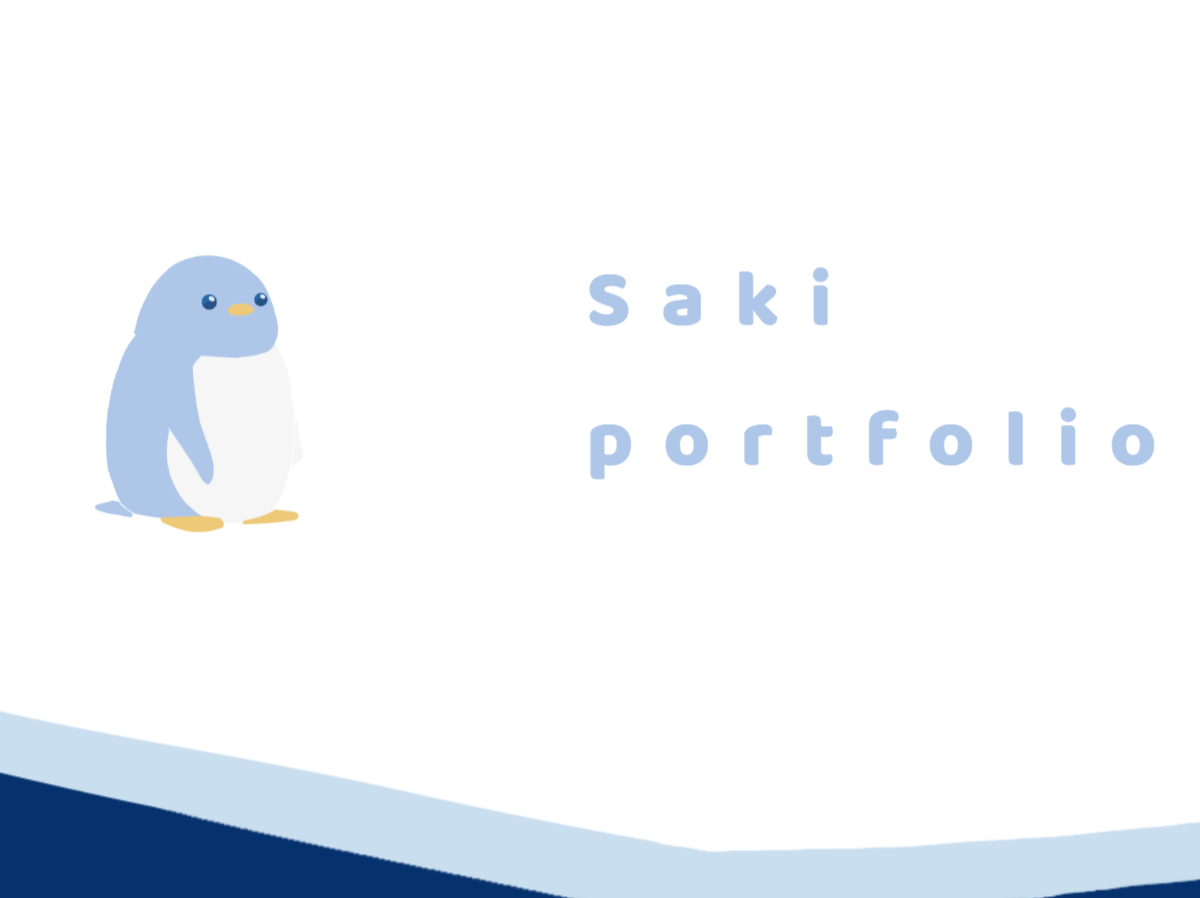
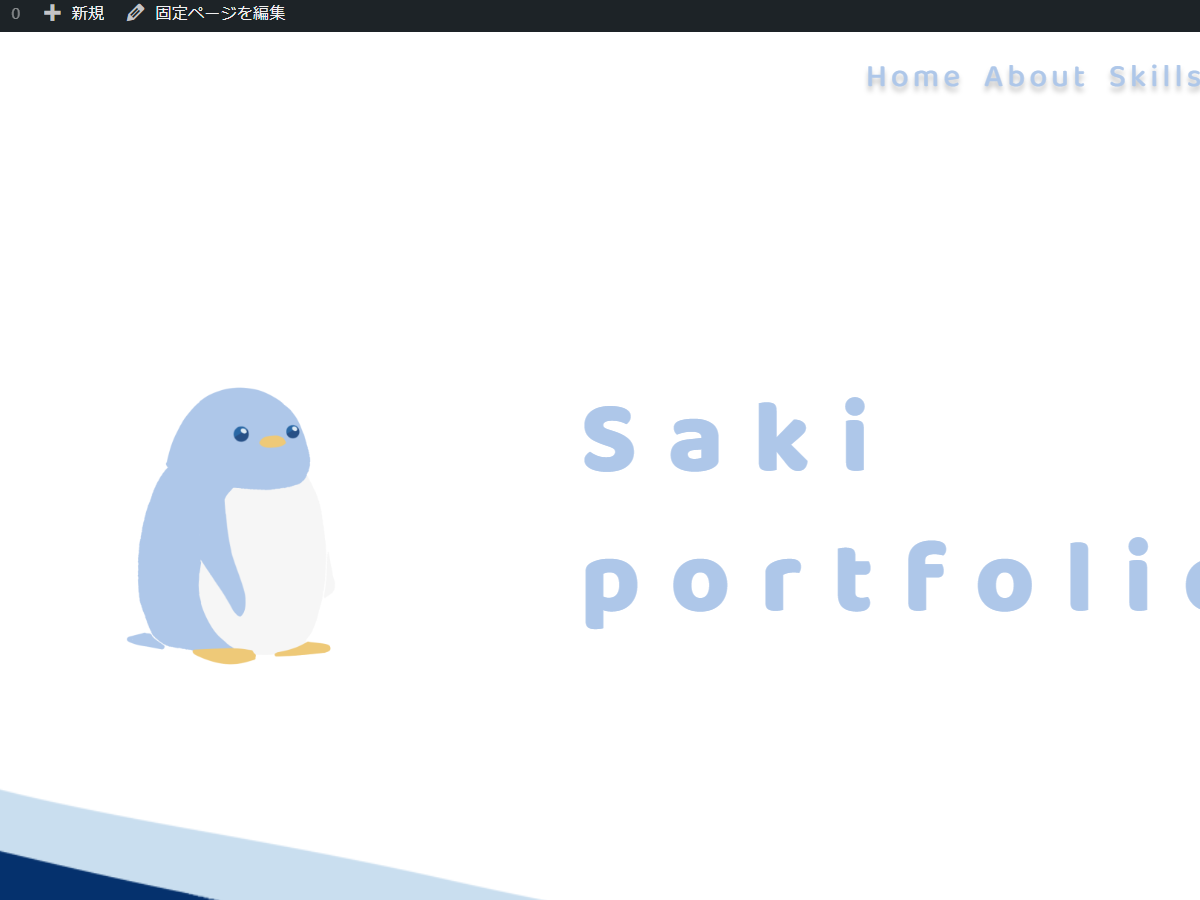
thema

diff --git a/css/app.css b/css/app.css
@@ -595,7 +595,7 @@ textarea:not([rows]) {
 @media screen and (min-width: 640px) and (max-width: 1024px) {
   .p-header__img {
     justify-content: center;
-    top: 75%;
+    top: 70%;
     left: 35%;
     width: 35%;
   }
@@ -1089,6 +1089,9 @@ textarea:not([rows]) {
   }
 }
 
+.p-single {
+  position: relative;
+}
 @media screen and (max-width: 640px) {
   .p-single {
     margin-top: 10rem;
@@ -1104,24 +1107,31 @@ textarea:not([rows]) {
     margin-top: 15rem;
   }
 }
-.p-single__text {
-  color: #ffffff;
-  line-height: 3rem;
+.p-single__title {
+  position: absolute;
+  z-index: 1;
 }
 @media screen and (max-width: 640px) {
-  .p-single__text {
-    margin-top: 20rem;
+  .p-single__title {
+    top: 10%;
+    left: 12%;
   }
 }
 @media screen and (min-width: 640px) and (max-width: 1024px) {
-  .p-single__text {
-    margin-top: 25rem;
+  .p-single__title {
+    top: 10%;
+    left: 20%;
   }
 }
 @media screen and (min-width: 1024px) {
-  .p-single__text {
-    margin-top: 22rem;
+  .p-single__title {
+    top: 10%;
+    left: 25%;
   }
+}
+.p-single__text {
+  color: #ffffff;
+  line-height: 3rem;
 }
 .p-single__text h3 {
   margin-top: 2rem;
@@ -1157,7 +1167,7 @@ textarea:not([rows]) {
 }
 @media screen and (min-width: 640px) and (max-width: 1024px) {
   .p-single__center {
-    min-height: 65rem;
+    min-height: 70rem;
   }
 }
 @media screen and (min-width: 1024px) {

diff --git a/sass/object/project/_p-single.scss b/sass/object/project/_p-single.scss
@@ -3,6 +3,7 @@
 // @use "../project/p-skills";
 
 .p-single{
+    position: relative;
     @include m.sp{
         margin-top: 10rem;
     }
@@ -12,18 +13,35 @@
     @include m.pc{
         margin-top: 15rem;
     }
+    &__title{
+        position: absolute;
+        z-index: 1;
+        @include m.sp{
+            top: 10%;
+            left: 12%;
+        }
+        @include m.tab{
+            top: 10%;
+            left: 20%;        
+        }
+        @include m.pc{
+            top: 10%;
+            left: 25%;
+        }
+
+    }
     &__text{
         color: var.$white;
         line-height: 3rem;
-        @include m.sp{
-            margin-top: 20rem;
-        }
-        @include m.tab{
-            margin-top: 25rem;
-        }
-        @include m.pc{
-            margin-top: 22rem;
-        }
+        // @include m.sp{
+        //     margin-top: 20rem;
+        // }
+        // @include m.tab{
+        //     margin-top: 25rem;
+        // }
+        // @include m.pc{
+        //     margin-top: 22rem;
+        // }
         h3{
             margin-top: 2rem;    
         }
@@ -66,7 +84,7 @@
             min-height: 60rem;
         }
         @include m.tab{
-            min-height: 65rem;
+            min-height: 70rem;
         }
         @include m.pc{
             min-height: 70rem;

diff --git a/js/main.js b/js/main.js
@@ -163,7 +163,7 @@ window.addEventListener('scroll', togglePageTopAnimation);
   ScrollReveal({ reset: false, distance: '2rem', duration: 2000, viewFactor: 0.3});
   ScrollReveal().reveal("h2, .p-single__title, .p-skills__left", { delay: 500, origin: 'bottom' });
   ScrollReveal().reveal(".c-fw-500", { delay: 800, origin: 'bottom' });
-  ScrollReveal().reveal(".p-skills__right, .p-skills__gallery-img, .p-works__card", { delay: 300, origin: 'bottom', interval: 200 });
+  ScrollReveal().reveal(".p-skills__right, #p-skills__gallery-img, .p-works__card", { delay: 300, origin: 'bottom', interval: 200 });
   ScrollReveal().reveal(".snow-monkey-form", { delay: 300, origin: 'bottom' });
 // });
 
@@ -225,7 +225,7 @@ document.addEventListener('DOMContentLoaded', function () {
 
 
 //氷の表示
-const options = { threshold: 0.1 };
+const options = { threshold: 0.2 };
 
 const observer = new IntersectionObserver((entries, observer) => {
   entries.forEach(entry => {

diff --git a/sass/object/project/_p-header.scss b/sass/object/project/_p-header.scss
@@ -68,7 +68,7 @@
         @include m.tab{
             justify-content: center;
             // top: 35rem;
-            top: 75%;
+            top: 70%;
             left: 35%;
             width: 35%;
         }

diff --git a/functions.php b/functions.php
@@ -21,12 +21,12 @@ add_post_type_support('page', 'excerpt');
 add_theme_support('automatic-feed-links');
 
 // デフォルトjQueryの削除
-function delete_jquery() {
-    if (!is_admin()) {
-        wp_deregister_script('jquery');
-    }
-}
-add_action('init', 'delete_jquery');
+// function delete_jquery() {
+//     if (!is_admin()) {
+//         wp_deregister_script('jquery');
+//     }
+// }
+// add_action('init', 'delete_jquery');
 
 //jsの読み込み
 // function custom_print_scripts() {
@@ -91,7 +91,7 @@ add_action('after_setup_theme', 'theme_setup');
 
 // 投稿、archiveのヘッダーの非表示
 function hide_header_on_single_archive() {
-    if (is_single() || is_archive()) {
+    if (is_single() || is_archive() || is_404() ) {
         echo '<style>.l-header { display: none; }</style>';
     }
 }

diff --git a/archive.php b/archive.php
@@ -1,7 +1,7 @@
 <?php get_header(); ?>
 
     <div class="p-single">
-        <!-- <?php
+        <?php
             if (has_nav_menu('hamburger_nav')) {
                 wp_nav_menu(
                 array(
@@ -12,9 +12,10 @@
                 )
                 );
             } 
-        ?> -->
+        ?>
 
-        <h2 class="l-inner__contact p-archive__title"><?php get_the_title();?>Warks</h2>
+        <!-- <h2 class="l-inner__contact p-archive__title"><?php get_the_title();?>Warks</h2> -->
+        <h2 class="l-inner__contact p-archive__title">Works</h2>
 
         <!-- <?php
             // ページのタイトルを取得

diff --git a/404.php b/404.php
@@ -8,8 +8,8 @@
 <?php get_header(); ?>
     <main class="l-main">
         <div class="p-404__content">
-            <p class="c-text--h3">アクセスしたページは見つかりませんでした。</p><br>
-            <p class="c-text--p c-button--archive c-button--form c-fw-700">
+            <p>アクセスしたページは見つかりませんでした。</p><br>
+            <p >
                 <a href="<?php echo esc_url( home_url( '/' ) ) ; ?>">トップページへ</a>
             </p>
         </div>
